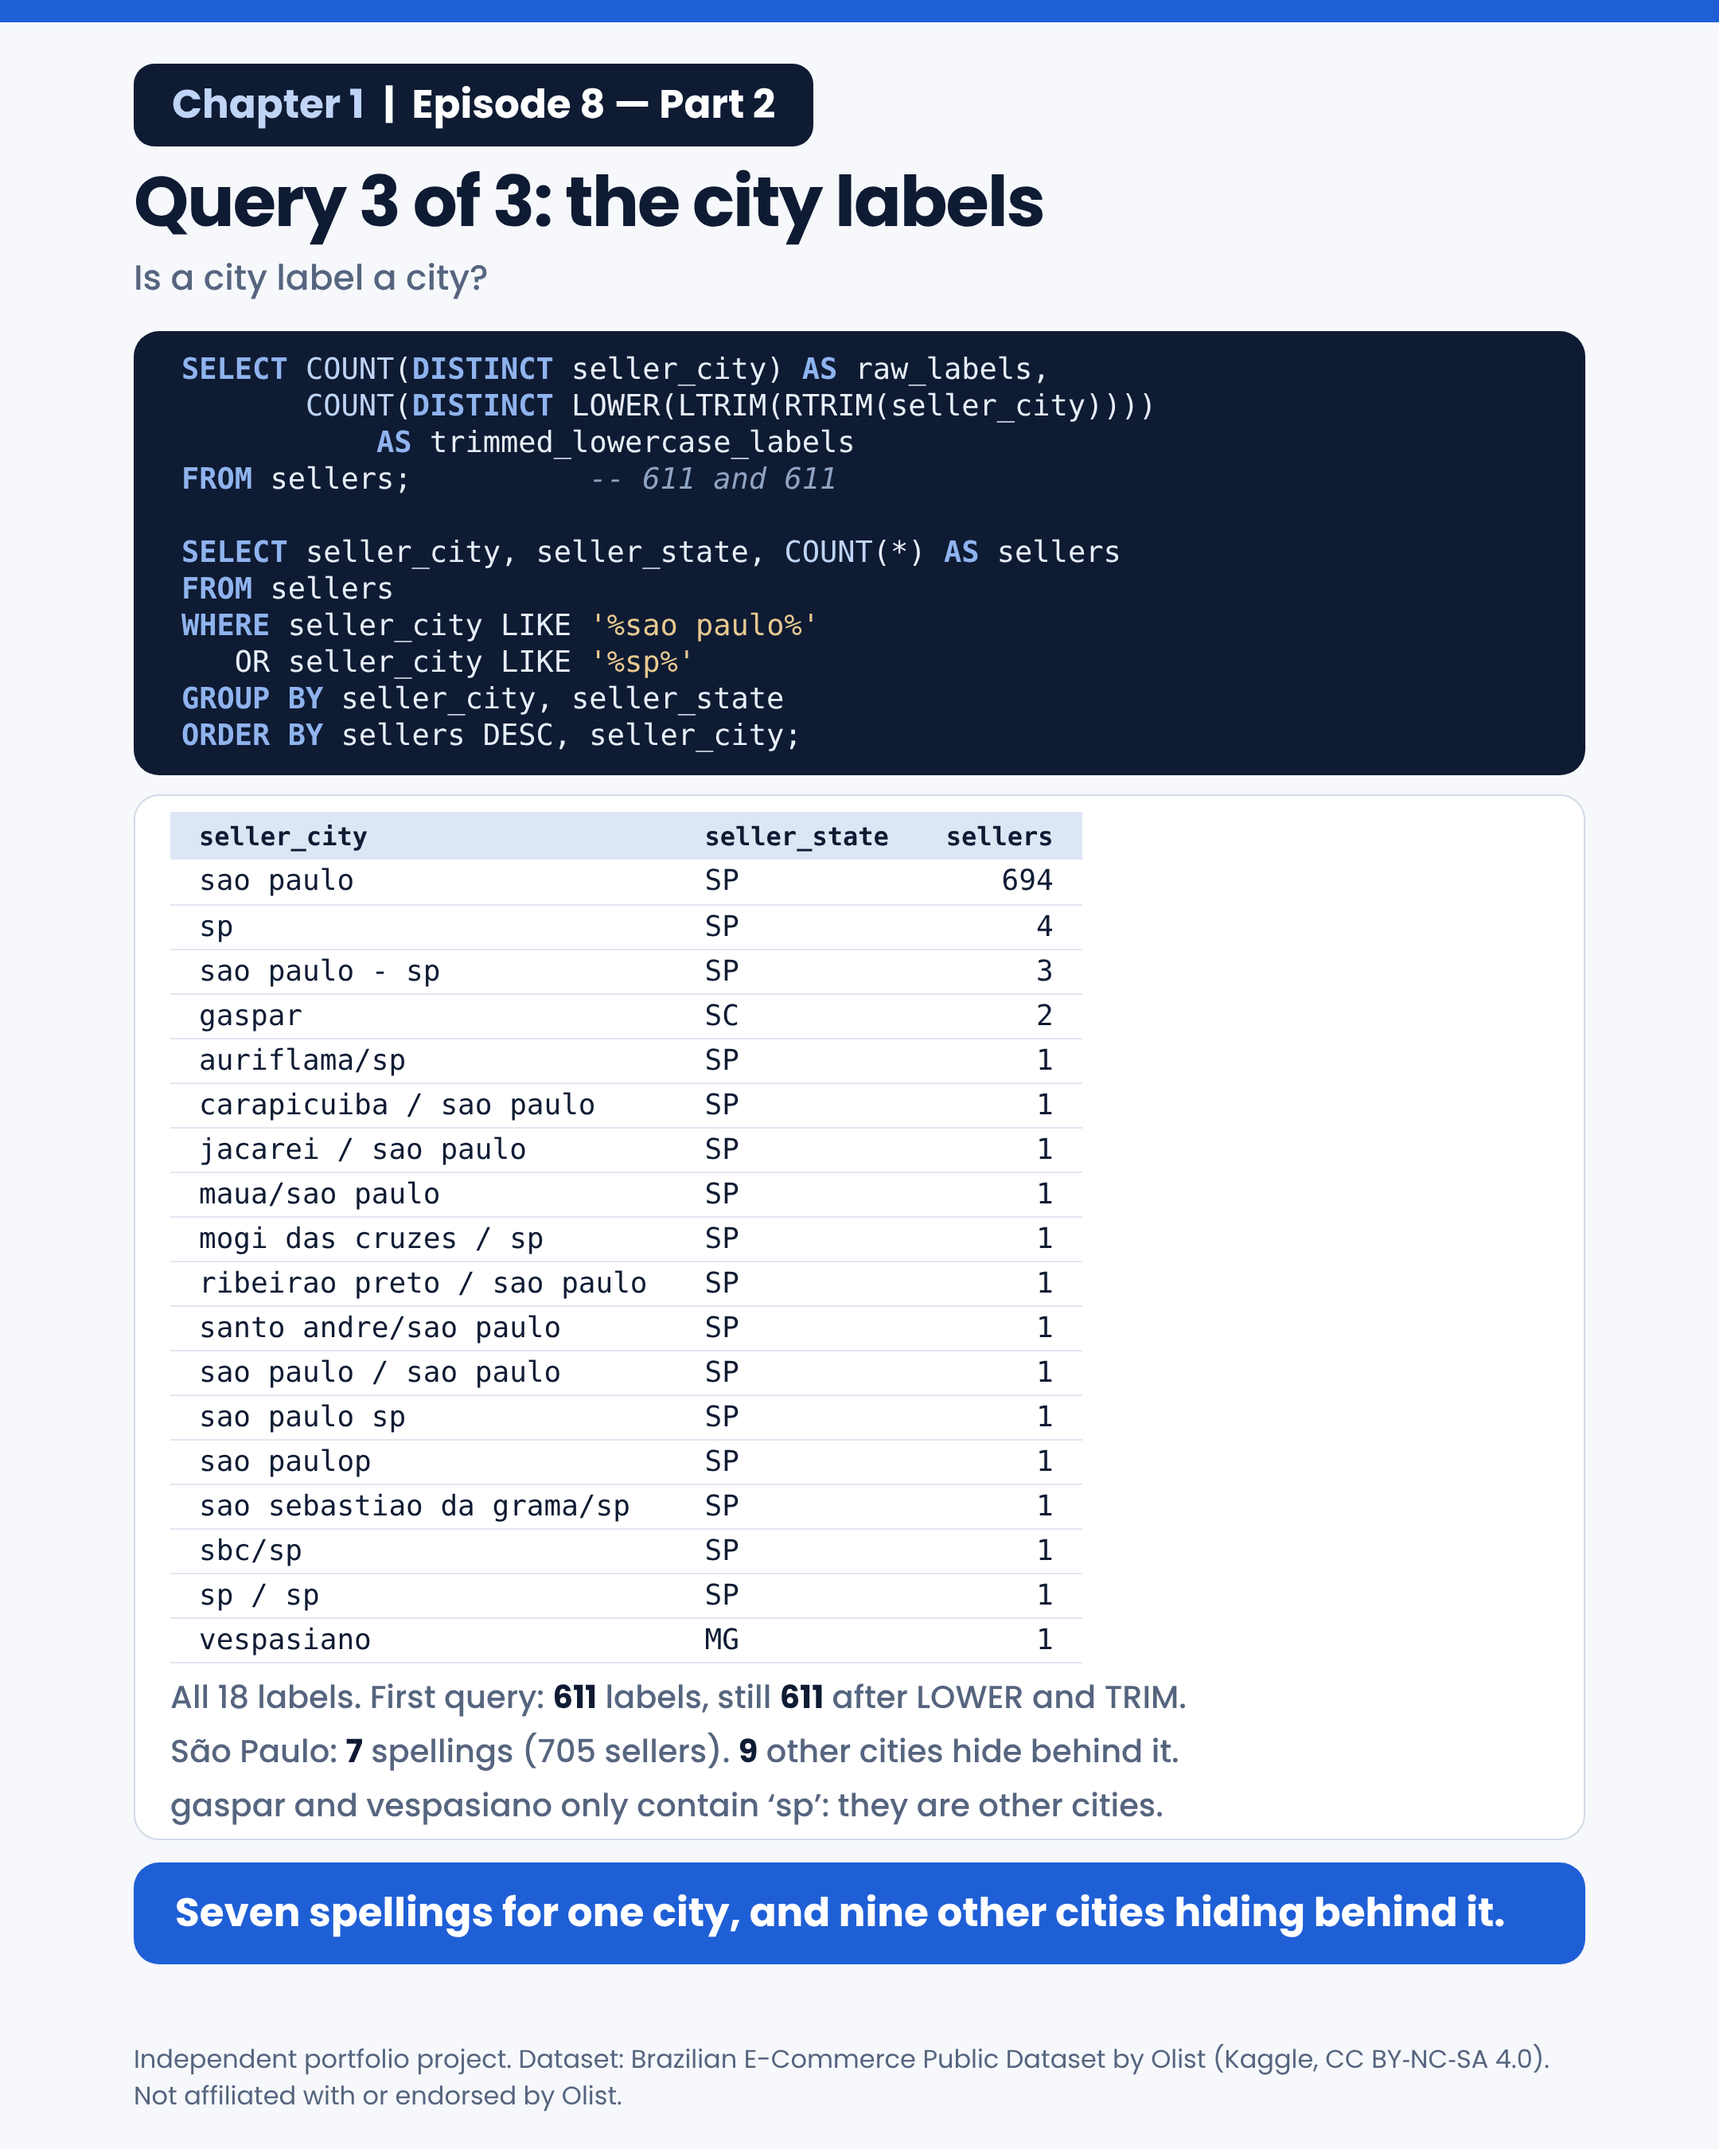
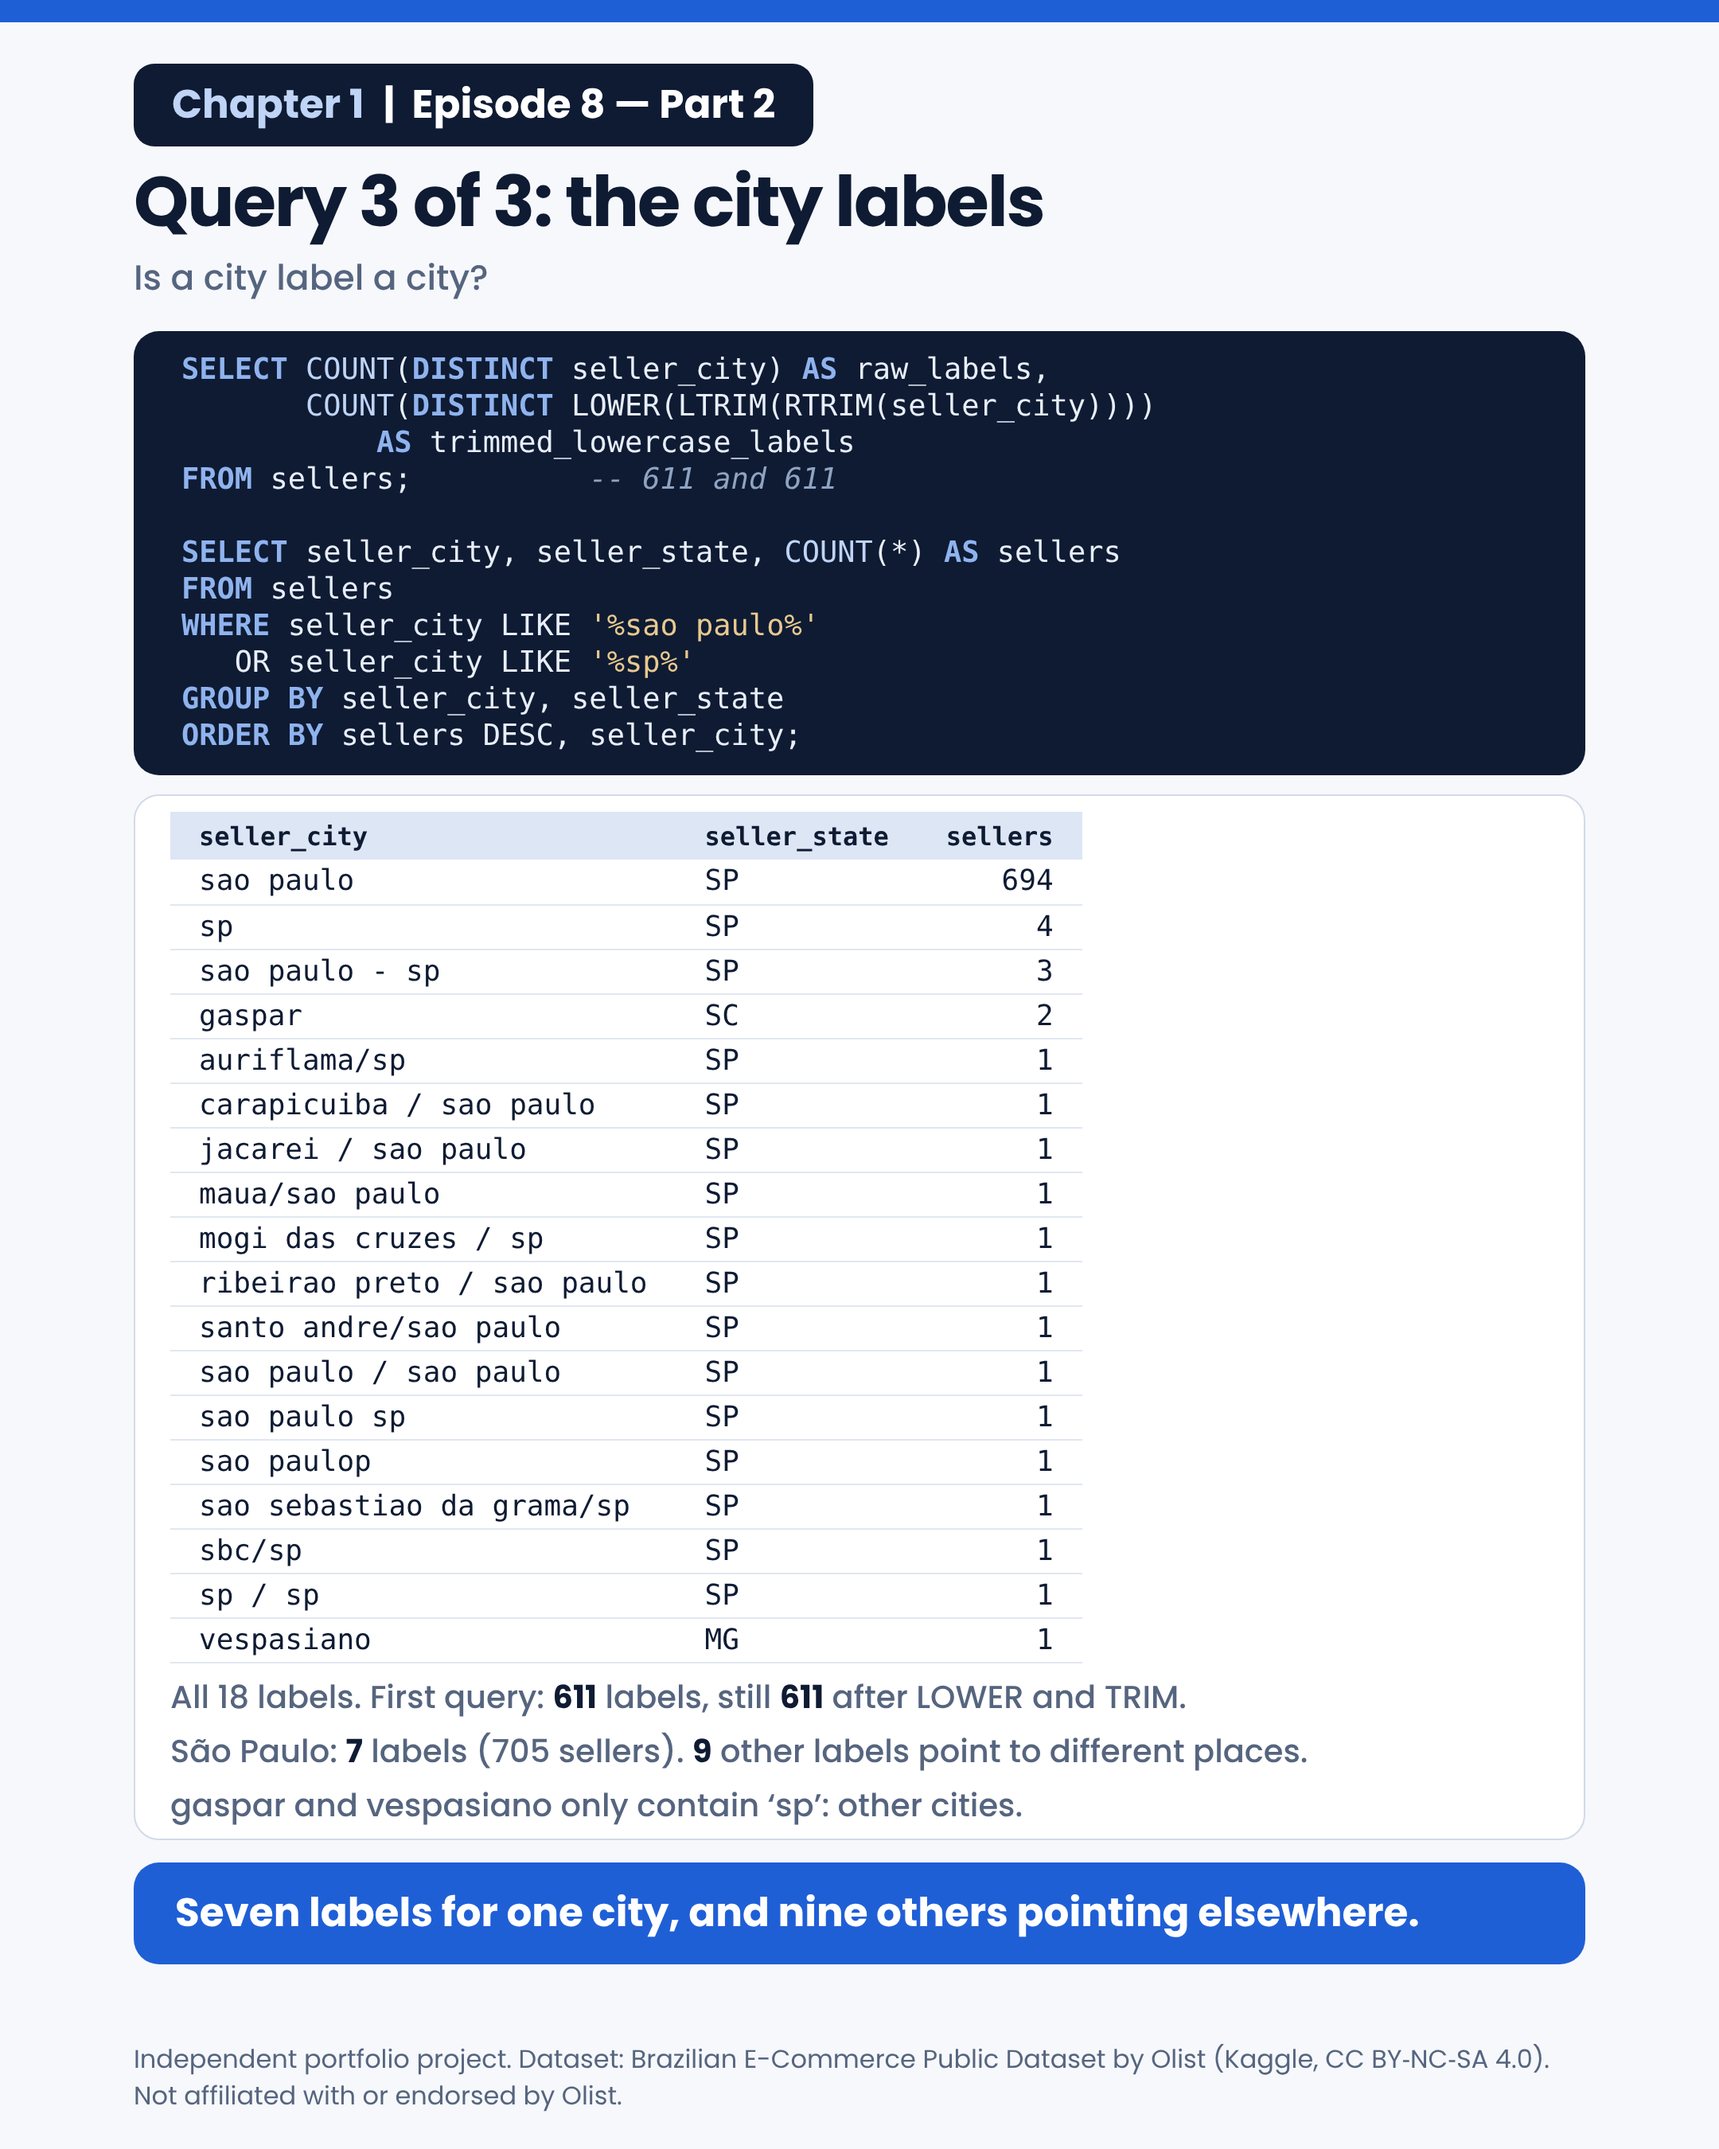
Episode 8: cautious wording for city labels, refreshed query 3 visual
Claude-Session: https://claude.ai/code/session_01UeGn9TH8tVdW7nm3aD3xKL

Changed region(s): [[0.1861, 0.8711, 0.8685, 0.9022], [0.2171, 0.8089, 0.7444, 0.84]]

diff --git a/README.md b/README.md
@@ -41,7 +41,7 @@ The period-comparison file contains the three separate queries supplied by the p
 | Product turnover (Chapter 1, Episode 5) | [Product sales by window, product groups, and earlier-sale test](sql/11_product_turnover.sql) | 2,436 products sold in both windows; 15,500 of 20,495 products sold in 2018 (75.6%) had no recorded sale before 2018, generating R$ 4,490,754.07 (60.8% of 2018 item sales) |
 | Seller analysis (Chapter 1, Episode 6) | [Sales by seller, average vs median, and sales bands](sql/12_seller_analysis.sql) | Active sellers rose from 1,227 to 2,383; median item sales per seller R$ 607.10 → R$ 782.24 (average R$ 2,537.08 → R$ 3,099.41); 63 sellers (2.6%) at R$ 20,000+ accounted for 37.2% of 2018 item sales |
 | Seller continuity (Chapter 1, Episode 7) | [Seller groups, earlier history, and continuation by sales band](sql/13_seller_continuity.sql) | 686 of 2,383 sellers active in 2018 (28.8%) were also active in January-August 2017; 1,284 (53.9%) had no recorded sale before 2018 and made 30.0% of 2018 item sales; 92.0% of 2017's top-band sellers (23 of 25) were active again in 2018 vs 43.1% of the under-R$ 1,000 band |
-| Seller geography check (Chapter 1, Episode 8) | [Sellers by region, ZIP-code consistency check, and city labels](sql/14_seller_geography_check.sql) | Southeast + South: 95.8% / 95.0% of active sellers; 42 of 3,095 sellers flagged by the ZIP-code check (1.4%), 0.73% / 0.57% of item sales; 611 distinct city labels, with São Paulo written 7 ways (705 sellers) and 9 other cities hiding behind "sao paulo" or "sp" |
+| Seller geography check (Chapter 1, Episode 8) | [Sellers by region, ZIP-code consistency check, and city labels](sql/14_seller_geography_check.sql) | Southeast + South: 95.8% / 95.0% of active sellers; 42 of 3,095 sellers flagged by the ZIP-code check (1.4%), 0.73% / 0.57% of item sales; 611 distinct city labels, with 7 labels interpreted as São Paulo (705 sellers) and 9 other labels containing "sao paulo" or "sp" that appear to refer to different places |
 | Sellers and states | [Seller counts, state comparison and state sales](sql/05_sellers_and_states.sql) | [Verified totals and state tables](VERIFIED_RESULTS_2026_10_15.md#4-sellers-and-item-sales-by-state) |
 | SP city labels | [Distinct recorded city labels](sql/06_sp_products_and_cities.sql) | [151 / 228, provisional while cleaning continues](VERIFIED_RESULTS_2026_10_15.md#5-sp-city-labels--provisional) |
 
@@ -105,7 +105,7 @@ More than 95% of active sellers were registered in the Southeast (SP, MG, RJ, ES
 
 The ZIP-code check flagged **42 of 3,095 sellers (1.4%)**: 35 INCONSISTENT (33 of them registered in SP) and 7 NOT_FOUND. They made R$ 22,818.61 of 2017 item sales (0.73%) and R$ 42,065.65 of 2018 (0.57%); the three statuses tie to R$ 3,113,000.32 and R$ 7,385,905.80. The states therefore held up to this consistency check. It is an internal rule, not address verification, and no state was corrected.
 
-The sellers table holds **611 distinct city labels**, still 611 after LOWER and TRIM; this does not prove that case is clean, because SQL Server's default comparison ignores case, but it shows that basic normalisation removes nothing. São Paulo is written in **seven ways** (705 sellers: "sao paulo" 694, "sp" 4, "sao paulo - sp" 3, and four labels with one seller each), and **nine other cities** hide behind "sao paulo" or "sp". Reading "sp" as the city of São Paulo is an interpretation. City counts cover all 3,095 sellers and are raw labels, not validated cities. Queries 1 to 3 were executed in SSMS by the analyst.
+The sellers table holds **611 distinct city labels**, still 611 after LOWER and TRIM; this does not prove that case is clean, because SQL Server's default comparison ignores case, but it shows that this basic normalisation does not reduce the count. **Seven labels** are interpreted as São Paulo (705 sellers: "sao paulo" 694, "sp" 4, "sao paulo - sp" 3, and four labels with one seller each), and **nine other labels** containing "sao paulo" or "sp" appear to refer to different places. Reading "sp" as the city of São Paulo is an interpretation. City counts cover all 3,095 sellers and are raw labels, not validated cities. Queries 1 to 3 were executed in SSMS by the analyst.
 
 ### Guided Checks and Work to Revisit
 

diff --git a/ANALYSIS_LOG.md b/ANALYSIS_LOG.md
@@ -147,6 +147,6 @@ Registered seller state of the three groups was also checked (executed in SSMS; 
 
 ZIP-code consistency check (all 3,095 sellers; one row per seller, 3,095 distinct IDs): CONSISTENT 3,053, INCONSISTENT 35, NOT_FOUND 7. Item sales of the 42 flagged sellers: R$ 22,818.61 in 2017 (0.73%) and R$ 42,065.65 in 2018 (0.57%); the three statuses tie to R$ 3,113,000.32 and R$ 7,385,905.80. Of the 35 INCONSISTENT sellers, 33 were registered in SP (reference state PR 10, SC 7, MG 6, RJ 4, RS 3, ES 1, BA 1, DF 1) and two were registered elsewhere (PA with reference PR, RN with reference RJ). The maximum effect on SP of reclassifying every flagged SP-registered seller is about 0.6 percentage points of item sales. The rule compares each registered state with the most frequent state of its ZIP prefix; it is an internal consistency check, and no state was corrected.
 
-City labels: 611 distinct labels in the sellers table, still 611 after LOWER/LTRIM/RTRIM (SQL Server's default comparison ignores case and trailing spaces, so this does not prove that case is clean). Sao Paulo appears as 7 labels covering 705 sellers (694 + 4 + 3 + 1 + 1 + 1 + 1); 9 other cities hide behind "sao paulo" or "sp" (auriflama/sp, carapicuiba / sao paulo, jacarei / sao paulo, maua/sao paulo, mogi das cruzes / sp, ribeirao preto / sao paulo, santo andre/sao paulo, sao sebastiao da grama/sp, sbc/sp); a naive rule "label contains sao paulo" would merge them into the city of Sao Paulo. Reading "sp" as the city of Sao Paulo is an interpretation. The earlier city-label cleaning (151 to 147 to 142 in 2017, 228 to 209 to 197 in 2018) was performed with CASE expressions inside a CTE, without modifying the sellers table (verified: sellers still holds 3,095 rows and 1,849 SP sellers). Chapter 2 will restart the cleaning from the raw data.
+City labels: 611 distinct labels in the sellers table, still 611 after LOWER/LTRIM/RTRIM (SQL Server's default comparison ignores case and trailing spaces, so this does not prove that case is clean). Sao Paulo appears as 7 labels covering 705 sellers (694 + 4 + 3 + 1 + 1 + 1 + 1); 9 other labels containing "sao paulo" or "sp" appear to refer to different places (auriflama/sp, carapicuiba / sao paulo, jacarei / sao paulo, maua/sao paulo, mogi das cruzes / sp, ribeirao preto / sao paulo, santo andre/sao paulo, sao sebastiao da grama/sp, sbc/sp); a naive rule "label contains sao paulo" would merge them into the city of Sao Paulo. Reading "sp" as the city of Sao Paulo is an interpretation. The earlier city-label cleaning (151 to 147 to 142 in 2017, 228 to 209 to 197 in 2018) was performed with CASE expressions inside a CTE, without modifying the sellers table (verified: sellers still holds 3,095 rows and 1,849 SP sellers). Chapter 2 will restart the cleaning from the raw data.
 
 Idea kept for Chapter 2 (after cleaning): sellers and item sales per city by region, using the median rather than the mean (Sao Paulo holds about 700 sellers), and a split of the sales increase between cities already active in 2017 and cities active only in 2018.
